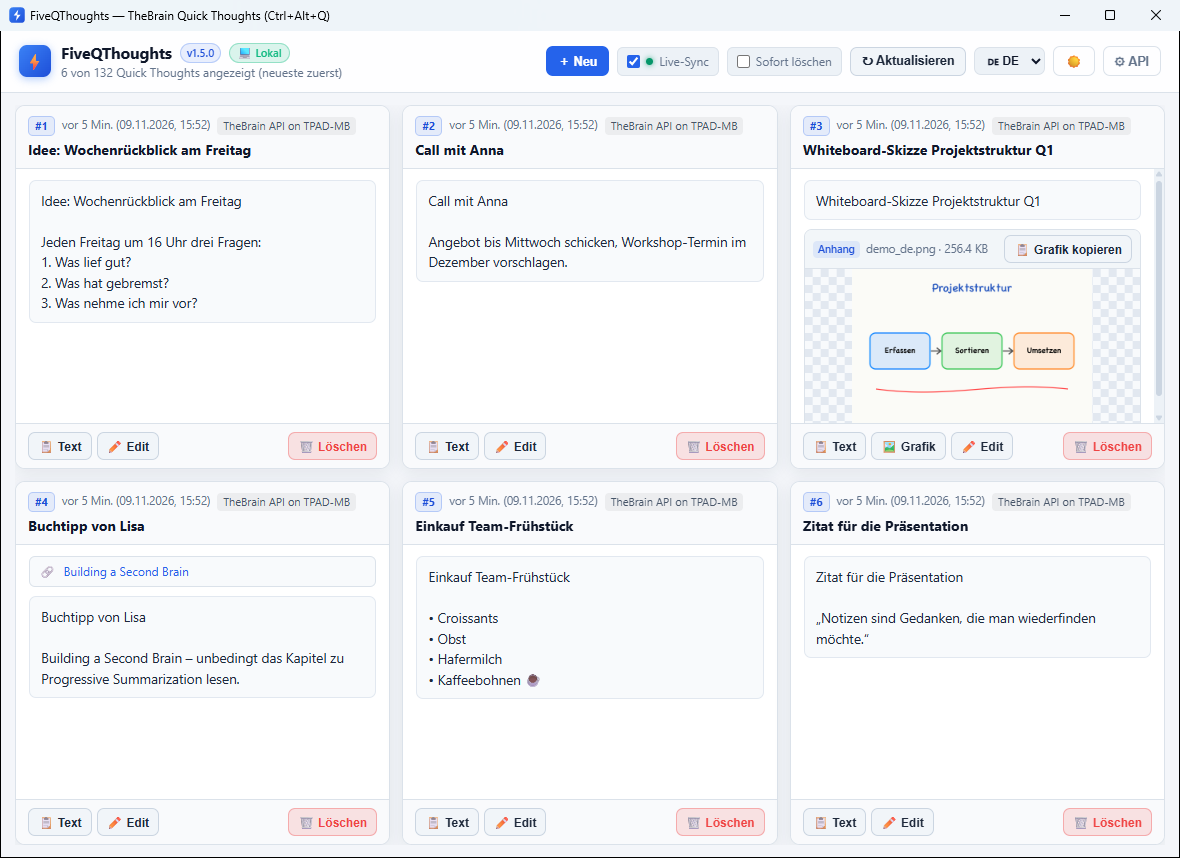
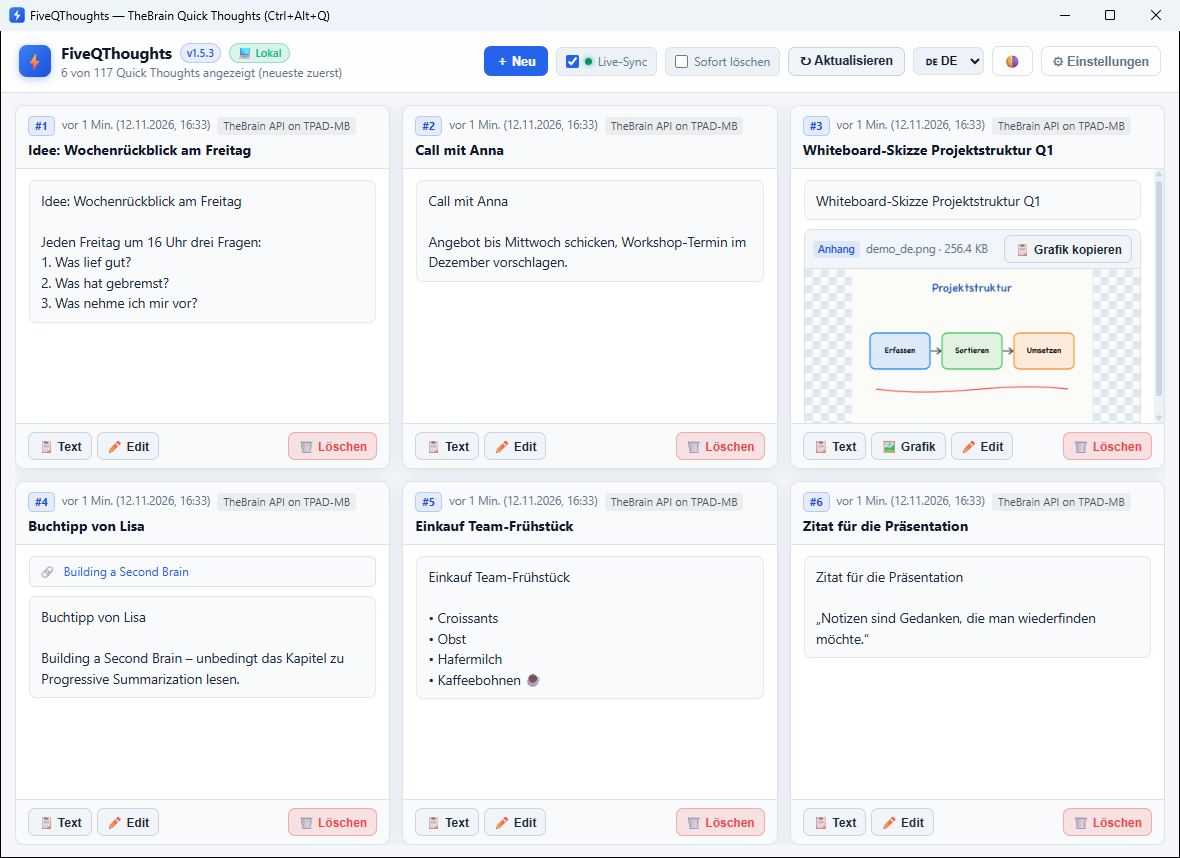
Website: Windows-Screenshots mit 1.5.3 neu aufgenommen
- zeigen jetzt "⚙ Einstellungen" / "⚙ Settings" und v1.5.3
- Anleitung: Aufnahme aus dem Quellcode (config.local.json im Repo)

Changed region(s): [[0.3966, 0.0303, 0.9763, 0.0909], [0.1525, 0.5758, 0.1831, 0.6061], [0.1525, 0.1212, 0.1831, 0.1515]]

diff --git a/tools/SCREENSHOTS-WINDOWS.md b/tools/SCREENSHOTS-WINDOWS.md
@@ -53,6 +53,12 @@ Automatisch (Entwurf, auf dem Mac geschrieben und **noch nicht unter Windows get
 powershell -ExecutionPolicy Bypass -File tools\capture_windows.ps1 -Lang de -Backend $B
 ```
 
+**Aus dem Quellcode statt installiert** (z. B. vor einem Release): `-Exe "..\FiveQThoughts\native\windows\bin\Release\FiveQThoughts.exe"`
+übergeben. Achtung: Ungepackt liest die App `FiveQThoughts\config.local.json` im Repo, nicht
+`%APPDATA%\FiveQThoughts\config.local.json` – dort vorher `"language"` auf `de` bzw. `en` und
+`"theme"` auf `auto` setzen (das Design folgt dann der vom Skript umgeschalteten Systemeinstellung).
+Bei einem „timed out“ von TheBrain im Bild das Skript einfach erneut laufen lassen.
+
 Das Skript setzt Sprache/Design über `POST /api/config`, startet die App neu, bringt das Fenster
 auf 1180×840 und nimmt es per `PrintWindow` (inkl. Titelleiste) auf. Falls die App nach dem
 Neustart einen anderen Port wählt oder das Bild schwarz bleibt (WebView2), manuell vorgehen:
